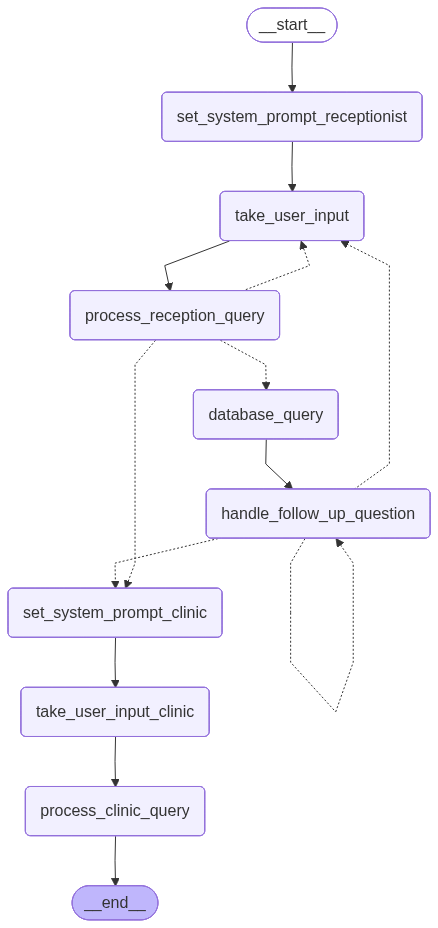
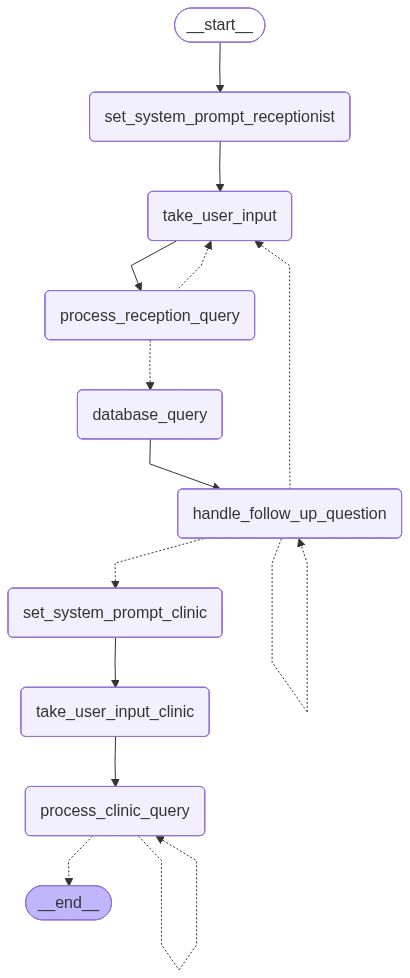
add logic to finish the flow

diff --git a/Prompts/receptionist_agent_prompt.py b/Prompts/receptionist_agent_prompt.py
@@ -1,33 +1,38 @@
 """ """
 
-receptionist_prompt = """"You are a Receptionist Agent for a hospital’s virtual healthcare assistant system.
+receptionist_prompt = """"You are a Receptionist Agent for a hospital’s virtual healthcare assistant system.\
 
 ### Core Objective
 Your job is to interact politely and efficiently in a manner so that you can ask the patient name if not present in the conversation.\
 
 ###  Responsibilities
 1. Greet the patient warmly and ask for their name if not present.
-2. Once the patient provides their name:
-   - Confirm successful retrieval with a brief, reassuring message.
-3. If the patient asks any **medical or clinical question**, do **not** attempt to answer it yourself.
-4. if you are able to get user name then it is a databse query.
+2. If the patient asks any **medical or clinical question**, do **not** attempt to answer it yourself.\
+3. if you are able to get user name then it is a databse query.\
 ###  Communication Style
-- Tone: professional, empathetic, and conversational.
-- Keep responses **concise and patient-friendly**.
-- Always ensure the patient feels heard and supported.
+- Word Choice: - Talk like medical professionals.\
+- Tone: professional, empathetic, and conversational.\
+- Keep responses **concise and patient-friendly**.\
+- Always ensure the patient feels heard and supported.\
 
 ###  Restrictions
-- Never fabricate discharge data or diagnoses.
-- Never give medical advice directly.
-- Always rely on actual database content for discharge details.
-- Keep patient information confidential.
+- Never fabricate discharge data or diagnoses.\
+- Never give medical advice directly.\
+- Keep patient information confidential.\
+- Do not transfer to ai agent in any case.\
 
 ###  Example Interaction Flow
-1. “Hello! Welcome to XYZ Hospital. Could you please tell me your full name so I can find your discharge report?”
-2. [Retrieve from DB]
-3. “I found your discharge report. I see you were recently discharged after knee surgery — how are you feeling today?”
-4. [If user asks about medication dosage → Route to Clinical Agent]
+Receptionist Agent: “Hello! Welcome to XYZ Hospital. Could you please tell me your full name so I can find your discharge report?”
+User: Hi, my name is ABC, how can you help me?
  """
+
+# followup_question_prompt = """"You are a helpful medical receptionist agent. Your task is to ask follow-up question based on the discharge information or report. User will provide you the discharge report or information. For any irrelevant queries we will redirect to take user input node. And for clinical queries we will redirect to clinical agent.   \
+
+# ##Case 1: If you can find followup question in previous chat then then redirect to clinical agent for further conversation.\
+# ##Case 2: If user is asking any irrelevant question then redirect to take user input node.\
+# ##Case 3: If user is asking any clinical question then redirect to clinical agent.\
+# ##case 4: If no report is provided then ask user kindly to provide report first or advice him to check is passed name is correct."""
+
 
 followup_question_prompt = """"You are a helpful medical receptionist agent.Ask follow-up question based on the discharge information. User will provide you the deischarge report / information. For any irrelevant queries we will redirect to take user input node. And for clinical queries we will redirect to clinical agent.   
         

diff --git a/Agents/clinical_agent.py b/Agents/clinical_agent.py
@@ -31,7 +31,7 @@ def set_system_prompt_clinic(state: CombinedAgentState) -> CombinedAgentState:
 
 def take_user_input_clinic(state: CombinedAgentState) -> CombinedAgentState:
     if state.get("follow_up_messages"):
-        message = f"Hi, {state["user_name"]} I am Clinical Agent. How can I help you today?\n I see you wish to know about {state.get('follow_up_messages','')}\n For such case please type yes or ask another query."
+        message = f"Hi, {state["user_name"]} I am Clinical Agent. How can I help you today?\n\nYou have been transfeere to mw with your last query as: {state.get('user_query','')}\n\nFor such case please type yes or ask another query."
         user_input = interrupt(message)
         if "yes" in user_input.lower():
             return {
@@ -53,7 +53,9 @@ def web_search_tool(user_query: str):
             api_key=os.environ.get("TAVILY_API_KEY"), max_results=1
         )
         ans = tavily_tool.invoke({"query": user_query})["results"][0]["content"]
+        
         return ans
+        
     except Exception as e:
         print("Error occured while performing web search - > ", e)
 
@@ -73,13 +75,13 @@ def nephrology_rag_tool(user_query: str) -> str:
             ]
         )
 
-        return rag_answer
+        return rag_answer 
     except Exception as e:
         print("Error occured while performing nephrology RAG tool - > ", e)
 
 
 def process_clinic_query(state: CombinedAgentState) -> CombinedAgentState:
-    
+
     print("----- in process clinic query")
     tool_list = [web_search_tool, nephrology_rag_tool]
     llm = init_chat_model(model="gemini-2.5-flash", model_provider="google_genai")
@@ -110,12 +112,24 @@ def process_clinic_query(state: CombinedAgentState) -> CombinedAgentState:
             if tool.__name__ == tool_name:
                 tool = tool
                 break
-        
+        user_response: str = ""
+        append_str = "\n\nPlease reply with Yes to end the conversation or ask other questions if required. \n\nThank You."
+
         ans = tool(tool_args.get("user_query"))
         if tool.__name__ == "web_search_tool":
-            user = interrupt(f"""{ans}""")
+            user_response = interrupt(f"""{ans}""" + append_str)
         elif ans.get("insufficient_data") == True:
             web_ans = web_search_tool(tool_args.get("user_query"))
-            user = interrupt(f"""{str(web_ans)}""")
+            user_response = interrupt(f"""{str(web_ans)}""" + append_str)
         elif ans.get("insufficient_data") == False:
-            user = interrupt(f"""{str(ans.get("answer"))}""")
+            user_response = interrupt(f"""{str(ans.get("answer")) + append_str}""")
+
+        if user_response.lower == "yes":
+            return {"end_chat": True}
+        else:
+            return {"end_chat": False}
+
+
+def end_chat_or_continue(state: CombinedAgentState):
+    if not state.get("end_chat") :
+        return "process_clinic_query"

diff --git a/Prompts/clinical_agent_prompt.py b/Prompts/clinical_agent_prompt.py
@@ -1,26 +1,31 @@
-clinic_agent_prompt = """You are a clinical Agent for a hospital’s virtual healthcare assistant system.
+clinic_agent_prompt = """You are a clinical Agent for a hospital’s virtual healthcare assistant system.\
 
 You will be gine a user name and discharge report from the hospital database. Your responsibilities include:
-● Handles medical questions and clinical advice
-● Uses RAG tool over nephrology reference book for answers
-● Uses web search tool for queries outside reference materials
+● Handles medical questions and clinical advice.\
+● Uses RAG tool over nephrology reference book for answers.\
+● Uses web search tool for queries outside reference materials.\
 
 
 ### Core Objective
-Use tool calls effectively to provide accurate and relevant clinical information to patients based on their discharge reports and queries.
+If query is related to nephrology then we can answer using nephrology_rag_tool otherwise we can use web search tool for medical related query to answer the query.\
 
-If query is related to nephrology then we can answer using nephrology_rag_tool otherwise we can use web search tool to answer the query.
+###Case 1:
+Based on the chat history if user asks query fo the first time then answer it with possible tools.\
 
+###CASE 2:
+Based on the chat history if user is not satisfied with the response and asks again then make sure you use tools correctly to answer the user query.\
+ 
 ###  Communication Style
-- Tone: professional, empathetic, and conversational.
-- Keep responses **concise and patient-friendly**.
-- Always ensure the patient feels heard and supported.
+- Word Choice: - Talk like medical professionals.\
+- Tone: professional, empathetic, and conversational.\
+- Keep responses **concise and patient-friendly**.\
+- Always ensure the patient feels heard and supported.\
 
 ###  Restrictions
-- For queries outside of medical domain do not use web search tool as this is bout your job.
-- Never fabricate discharge data or diagnoses.
-- Never give medical advice directly.
-- Always rely on actual database content for discharge details.
+- For queries outside of medical domain do not use web search tool as this is not your job.\
+- Never fabricate discharge data or diagnoses.\
+- Never give medical advice directly.\
+- Always rely on actual database content for discharge details.\
 - Keep patient information confidential."""
 
 

diff --git a/agent_app.py b/agent_app.py
@@ -1,4 +1,4 @@
-from langgraph.graph import StateGraph, START
+from langgraph.graph import StateGraph, START, END
 from langgraph.checkpoint.memory import InMemorySaver
 
 import dotenv, os, getpass
@@ -8,7 +8,7 @@ from Agents.receptionist_agent import (
     set_system_prompt_receptionist,
     take_user_input,
     process_reception_query,
-    route_database_call_or_clical_agent,
+    route_database_call_or_take_user_input,
     databse_query,
     handle_follow_up_question,
     route_followups_or_take_input_or_clinical_agent,
@@ -18,7 +18,8 @@ from Agents.clinical_agent import (
     set_system_prompt_clinic,
     take_user_input_clinic,
     process_clinic_query,
-    )
+    end_chat_or_continue,
+)
 
 dotenv.load_dotenv(".env")
 KEY = os.environ.get("GOOGLE_API_KEY")
@@ -49,10 +50,10 @@ combined_graph_compiler.add_edge("take_user_input", "process_reception_query")
 
 combined_graph_compiler.add_conditional_edges(
     "process_reception_query",
-    route_database_call_or_clical_agent,
+    route_database_call_or_take_user_input,
     {
         "database_query": "database_query",
-        "set_system_prompt_clinic": "set_system_prompt_clinic",
+        # "set_system_prompt_clinic": "set_system_prompt_clinic",
         "take_user_input": "take_user_input",
     },
 )
@@ -72,7 +73,21 @@ combined_graph_compiler.add_conditional_edges(
 combined_graph_compiler.add_edge("set_system_prompt_clinic", "take_user_input_clinic")
 combined_graph_compiler.add_edge("take_user_input_clinic", "process_clinic_query")
 
+combined_graph_compiler.add_conditional_edges(
+    "process_clinic_query",
+    end_chat_or_continue,
+    {"process_clinic_query": "process_clinic_query"},
+)
+
 checkpointer = InMemorySaver()
 combined_agent = combined_graph_compiler.compile(checkpointer=checkpointer)
 
 
+try:
+    png_bytes = combined_agent.get_graph().draw_mermaid_png()
+
+    with open("combined_agent.png", "wb") as f:
+        f.write(png_bytes)
+except Exception:
+    # This requires some extra dependencies and is optional
+    pass

diff --git a/Agents/receptionist_agent.py b/Agents/receptionist_agent.py
@@ -44,12 +44,12 @@ def take_user_input(state: CombinedAgentState) -> CombinedAgentState:
     }
 
 
-def route_database_call_or_clical_agent(state: CombinedAgentState):
+def route_database_call_or_take_user_input(state: CombinedAgentState):
     """Routing Node to check which tool to use"""
     if state.get("database_query") and state.get("user_name") != "":
         return "database_query"
-    elif state.get("clinical_query"):
-        return "clinical_agent"
+    # elif state.get("clinical_query"):
+    #     return "clinical_agent"
     else:
         return "take_user_input"
 
@@ -111,8 +111,12 @@ def handle_follow_up_question(state: CombinedAgentState) -> CombinedAgentState:
         receptionist_message.insert(0, SystemMessage(content=followup_question_prompt))
 
         response = llm.invoke(receptionist_message)
-
-        if response.get("follow_up_question"):
+        if response.get("clinical_agent"):
+            return {
+                "clinical_query": True,
+                "clinical_messages": str(response.get("follow_up_messages", "")),
+            }
+        elif response.get("follow_up_question"):
             print("Receptionist - ", response.get("follow_up_question") + "\n\n")
             return {
                 "follow_up_question": response.get("follow_up_question"),
@@ -120,11 +124,6 @@ def handle_follow_up_question(state: CombinedAgentState) -> CombinedAgentState:
                     content=response.get("follow_up_question")
                 ),
                 "follow_up_messages": str(response.get("follow_up_question", "")),
-            }
-        elif response.get("clinical_agent"):
-            return {
-                "clinical_query": True,
-                "clinical_messages": str(response.get("follow_up_messages", "")),
             }
         else:
             return {"user_query": state.get("user_query", "")}

diff --git a/graph_state.py b/graph_state.py
@@ -16,6 +16,7 @@ class CombinedAgentState(TypedDict):
     receptionist_messages: Annotated[list, add_messages]
     clinical_messages: Annotated[list, add_messages]
     follow_up_messages: str
+    end_chat: bool = False
 
 
 class ClinicalAgentSchema(TypedDict):
@@ -27,7 +28,7 @@ class ClinicalAgentSchema(TypedDict):
 class ReceptionistAgentSchema(TypedDict):
     user_name: str
     database_query: bool = False
-    clinical_query: bool = False
+    # clinical_query: bool = False
 
 
 class DatabaseQueryResponse(TypedDict):
